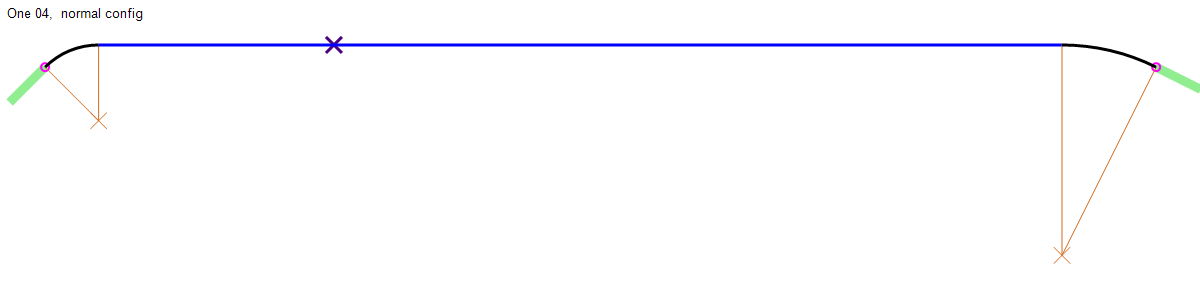
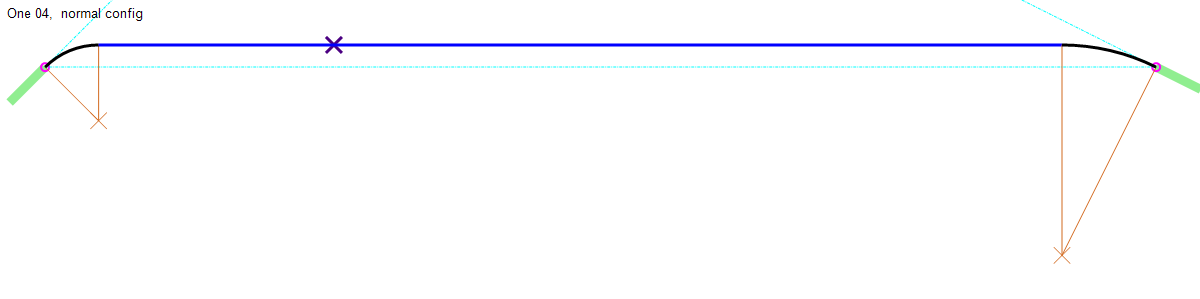
adds valid referece point area on test output drawings

Changed region(s): [[0.0308, 0.2107, 0.9558, 0.2408]]

diff --git a/app/iSukces.DrawingPanel.Paths.Test/_drawing/ResultDrawer.cs b/app/iSukces.DrawingPanel.Paths.Test/_drawing/ResultDrawer.cs
@@ -1,6 +1,7 @@
 using System;
 using System.Collections.Generic;
 using System.Drawing;
+using System.Drawing.Drawing2D;
 using System.IO;
 using System.Linq;
 using System.Runtime.CompilerServices;
@@ -17,7 +18,35 @@ namespace iSukces.DrawingPanel.Paths.Test
         public static void Draw(OneReferencePointPathCalculator x, IPathResult r, TestName name,
             [CallerFilePath] string path = null)
         {
-            void ExtraDraw(ResultDrawer g) { g.GrayCross(x.Reference.Point); }
+            
+            void ExtraDraw2(ResultDrawer g)
+            {
+                var crossNullable = x.Start.Cross(x.End);
+                if (!crossNullable.HasValue) return;
+                var cross = crossNullable.Value;
+                var dot   = (cross - x.Start.Point) * x.Start.Vector;
+                if (dot < 0)
+                    return;
+             dot = (cross - x.End.Point) * x.End.Vector;
+                if (dot < 0)
+                    return;
+
+
+                using var pen = new Pen(Color.Aqua, 1)
+                {
+                    DashStyle = DashStyle.DashDot
+                };
+                var       p1  = g.Map(x.Start.Point);
+                var       p2  = g.Map(x.End.Point);
+                var       p3  = g.Map(cross);
+                g.Graph.DrawPolygon(pen, new[] { p1, p2, p3, p1 });
+            }
+            
+            void ExtraDraw(ResultDrawer g)
+            {
+                g.GrayCross(x.Reference.Point);
+                ExtraDraw2(g);
+            }
 
             IEnumerable<Point> ExtraPoints()
             {

diff --git a/app/iSukces.DrawingPanel.Paths.Test/_drawing/ResultDrawerBase.cs b/app/iSukces.DrawingPanel.Paths.Test/_drawing/ResultDrawerBase.cs
@@ -149,7 +149,7 @@ namespace iSukces.DrawingPanel.Paths.Test
             return m;
         }
 
-        private PointF Map(Point p)
+        public PointF Map(Point p)
         {
             var x = Map(p.X, XRange);
             var y = Bmp.Height - Map(p.Y, YRange);
